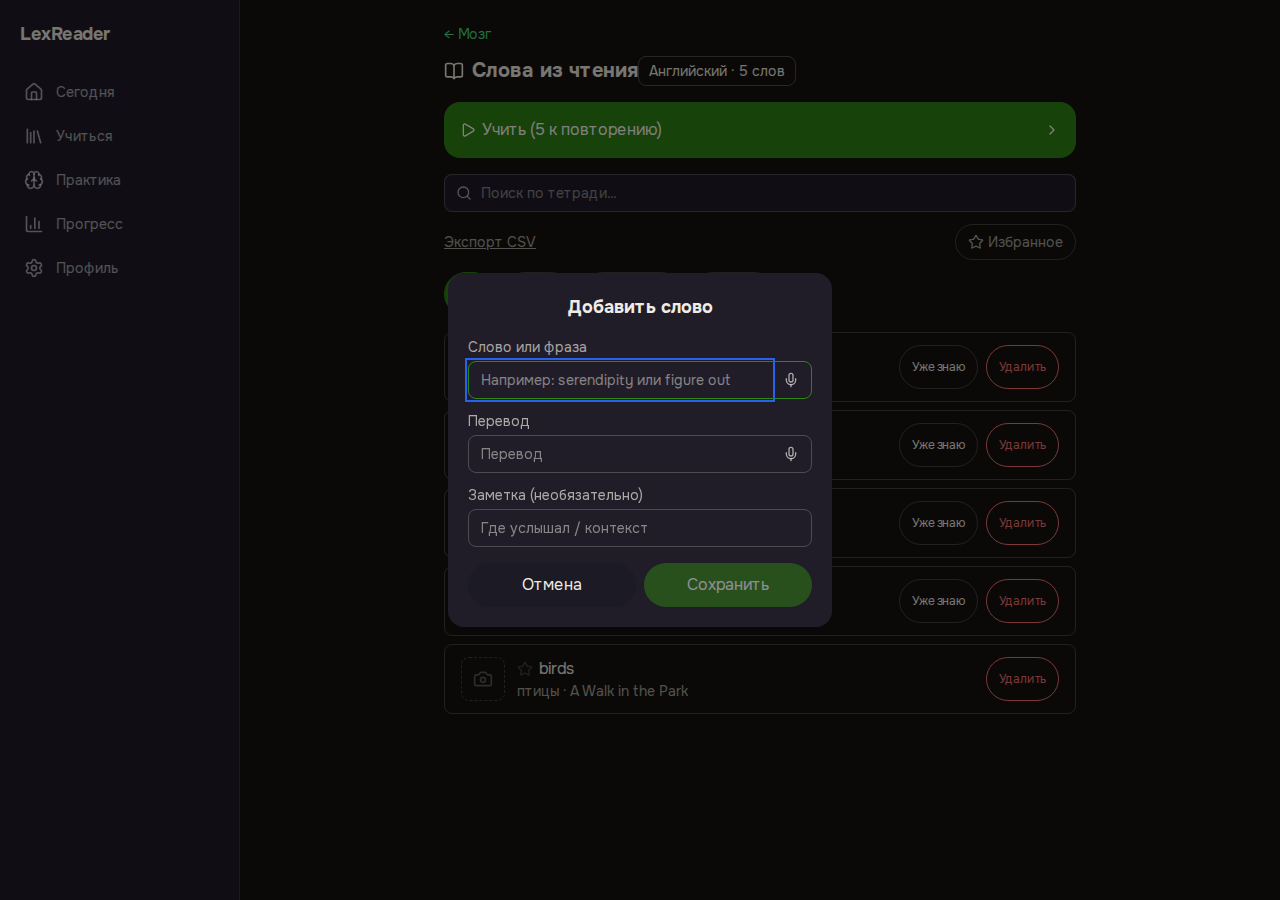
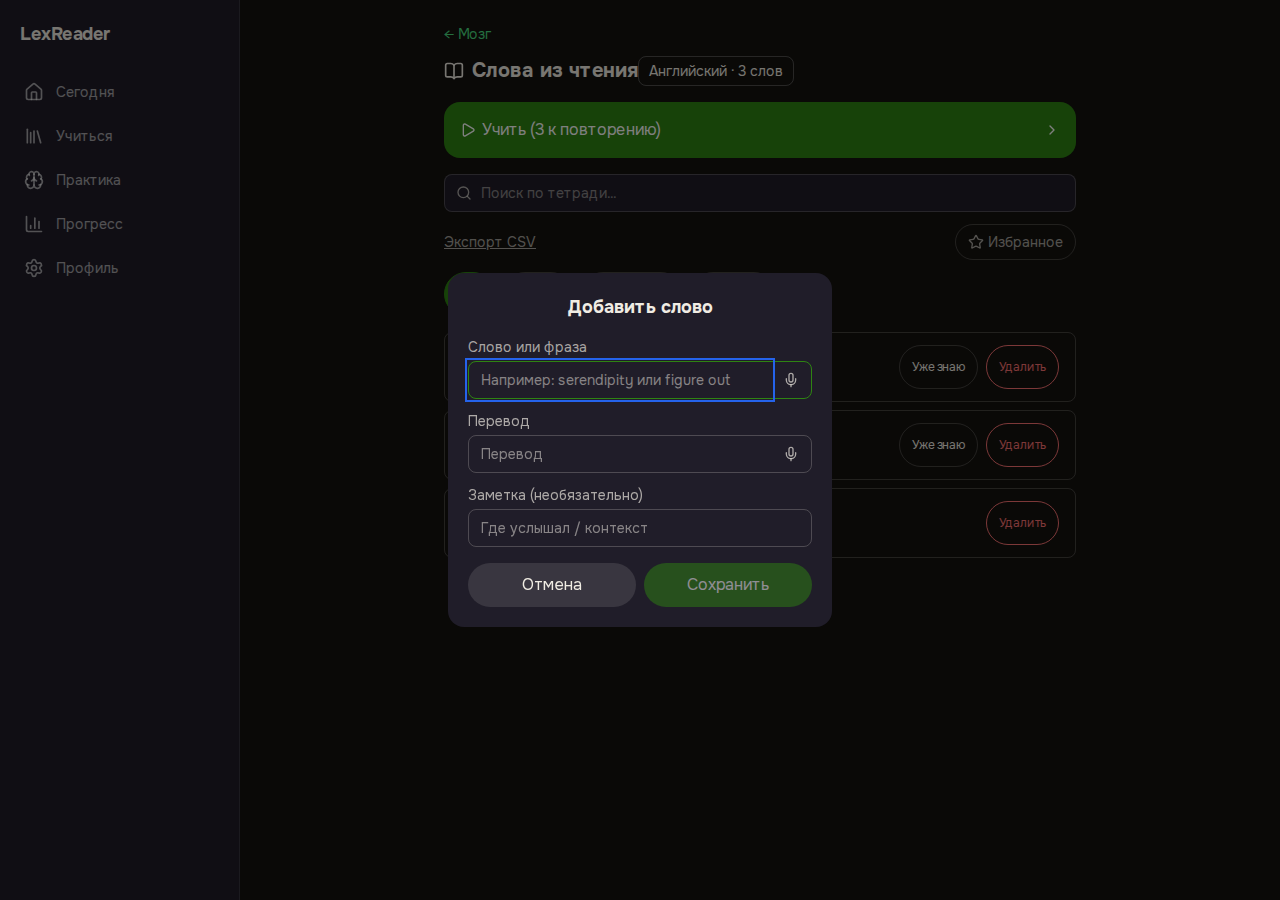
fix(notebook): поправить невидимую кнопку "Отмена" в тёмной теме
--surface-muted темнее --surface модалки в тёмной теме — кнопка
почти сливалась с фоном (Фаза 13d, add-word-modal.tsx). bg-[var(--border)]
— полупрозрачный оверлей, всегда контрастен относительно контейнера,
а не абсолютный цвет.

diff --git a/src/app/(app)/notebook/add-word-modal.tsx b/src/app/(app)/notebook/add-word-modal.tsx
@@ -157,7 +157,7 @@ export default function AddWordModal({
                 setOpen(false);
                 reset();
               }}
-              className="flex-1 rounded-full bg-[var(--surface-muted)] py-2.5 font-medium"
+              className="flex-1 rounded-full bg-[var(--border)] py-2.5 font-medium"
             >
               Отмена
             </button>
